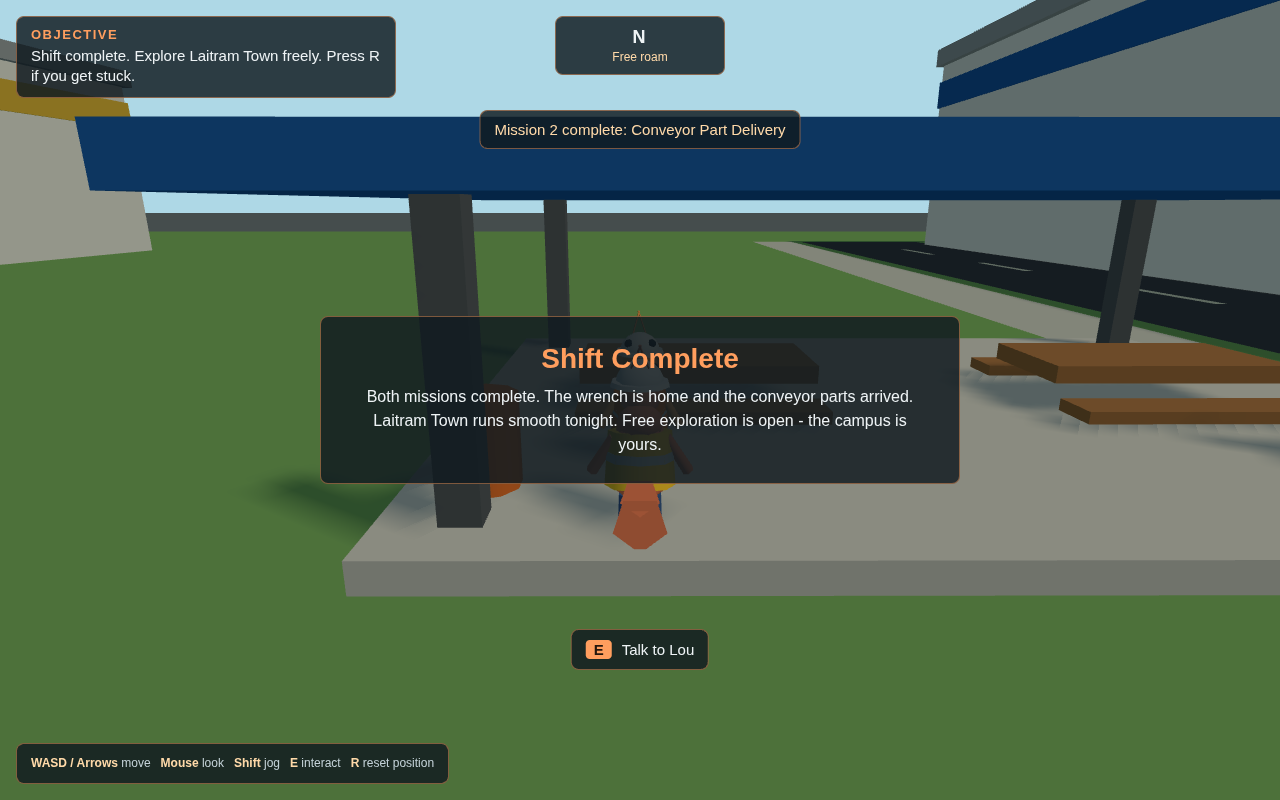
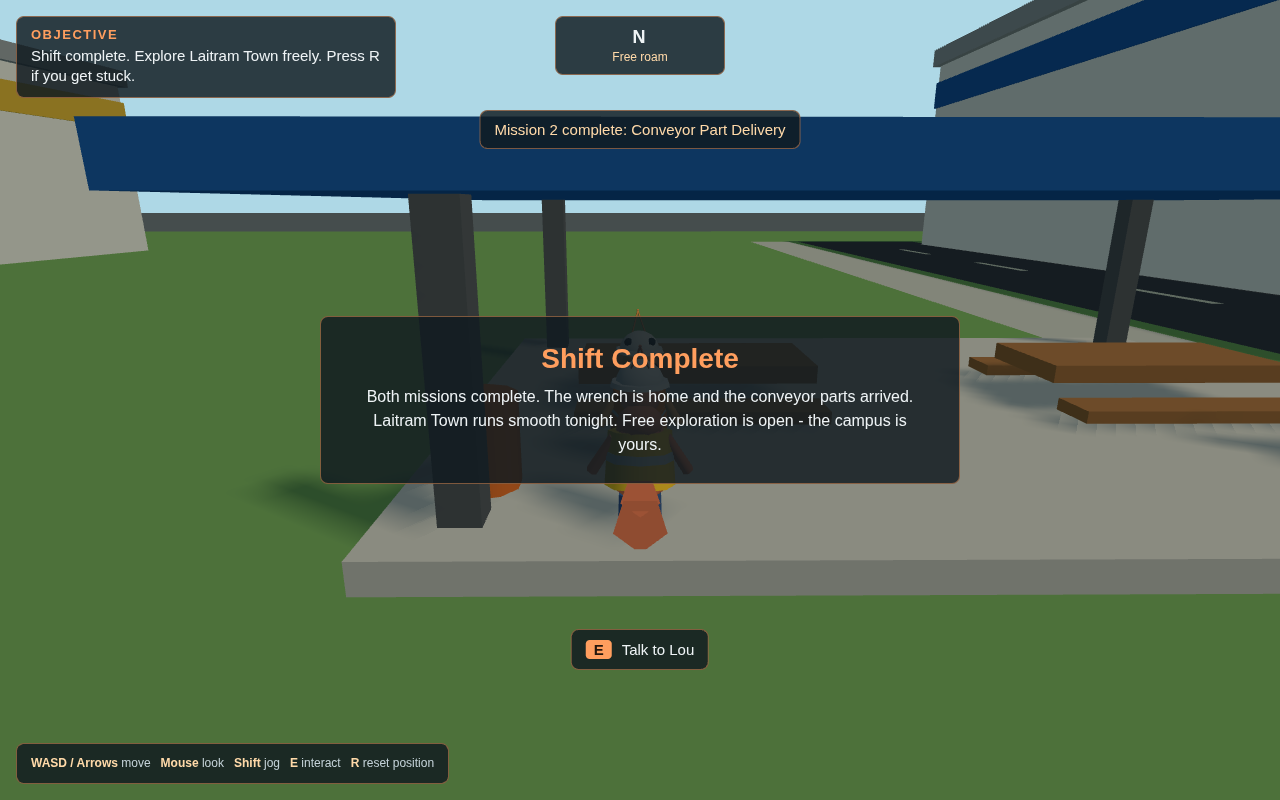
checkpoint: final build, readme, pages workflow

diff --git a/README.md b/README.md
@@ -1,0 +1,101 @@
+# Shrimp Shift: Laitram Town
+
+A low-poly 3D third-person walking game built with Three.js and Vite.
+You play a new-hire shrimp worker on an industrial campus inspired by the
+exterior of the Laitram/Intralox property area in Harahan/Elmwood,
+Louisiana. Walk the campus, talk to twelve shrimp coworkers, and complete
+two missions.
+
+Everything is static HTML/CSS/JS. No backend, no database, no login, no
+runtime API calls, no API keys, no paid assets. Node.js is only needed to
+develop and build, not to play the deployed game.
+
+## Install
+
+```bash
+npm install
+```
+
+## Run locally (dev server)
+
+```bash
+npm run dev
+```
+
+Open the printed URL (default `http://localhost:5173/Shrimp-Game/`).
+Both `/Shrimp-Game/index.html` and `/Shrimp-Game/preview.html` work.
+
+## Build
+
+```bash
+npm run build
+```
+
+Static output goes to `dist/`. Preview the production build with:
+
+```bash
+npm run preview
+```
+
+Then open `http://localhost:4173/Shrimp-Game/` (or `/Shrimp-Game/preview.html`).
+
+## GitHub Pages
+
+The Vite base path is set to `/Shrimp-Game/` in `vite.config.js` to match
+this repository's name. If you rename the repository, update that one line.
+
+Deployment options:
+
+1. **GitHub Actions (recommended, already included).** The workflow in
+   `.github/workflows/deploy.yml` builds the game and publishes `dist/` to
+   GitHub Pages on every push to the default branch. In the repository
+   settings, set **Settings > Pages > Source** to **GitHub Actions**. The
+   game will be served at:
+   `https://<your-username>.github.io/Shrimp-Game/`
+   (and `https://<your-username>.github.io/Shrimp-Game/preview.html`).
+
+2. **Manual.** Run `npm run build`, then push the contents of `dist/` to a
+   `gh-pages` branch and point **Settings > Pages** at that branch.
+
+## Controls
+
+- `WASD` or arrow keys: move
+- Mouse: look (click the screen to capture the mouse)
+- `Shift`: jog
+- `E`: interact / advance dialogue
+- `R`: reset position to the front gate if stuck
+- `Esc`: release the mouse
+
+## Features implemented
+
+- Low-poly industrial campus: headquarters office, large Intralox
+  manufacturing plant, distribution warehouse with a west dock, machinery
+  building, guard shack, break pavilion, roads, sidewalks, parking lots
+  with cars, semi trucks at loading docks, forklift, pallets, crates,
+  barrels, perimeter fence, drainage canal, live oaks and palms, and
+  campus signage
+- Third-person player character (shrimp worker) with walk/jog, mouse-orbit
+  camera, and idle/walk animation bob
+- Collision with buildings, props, fences, and map boundaries; the player
+  cannot leave the property or fall through the world
+- 12 shrimp-worker NPCs with hard hats, safety vests, and boots; some stand
+  at posts, some patrol waypoint paths, all face you to chat
+- Mission 1: Missing Wrench - talk to Gus at shipping, find the 10 mm
+  wrench at the west dock, return it
+- Mission 2: Conveyor Part Delivery - talk to Sal at receiving, carry the
+  parts box across campus to Dot at the warehouse, with progress shown
+- Completion message and free exploration after both missions
+- HUD: objective tracker, compass with objective arrow and distance,
+  interaction prompt, dialogue box, toast notifications, controls help
+- Headless end-to-end test (`node scripts/verify.mjs` after a build)
+  that boots the game and completes both missions
+
+## Known limitations
+
+- The campus is an approximation from public exterior knowledge, not a
+  survey-accurate map; building shapes and placement are simplified
+- Building interiors are intentionally not modeled
+- No sound or music
+- No save game; refresh restarts the shift
+- Desktop browser with keyboard and mouse required (no touch controls)
+- NPC patrol paths do not avoid the player; NPCs are not collision solids